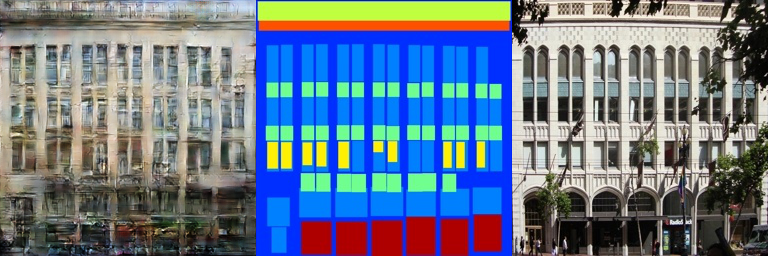
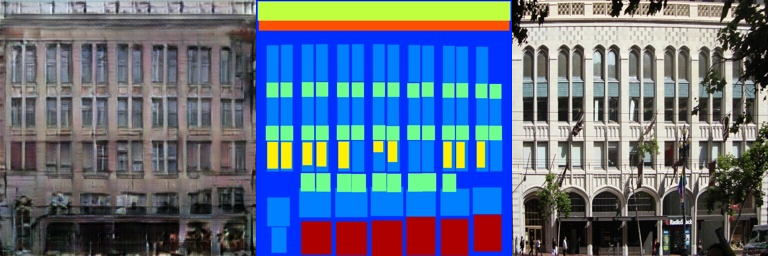
proper receptive field size use

Changed region(s): [[0.0, 0.0, 0.3438, 1.0]]

diff --git a/Work-place/pix2pix/pix2pix.py b/Work-place/pix2pix/pix2pix.py
@@ -115,10 +115,8 @@ def discriminator(inputs, targets, n_first_layer_filter=64, alpha=0.2, reuse=Fal
         l3 = tf.layers.batch_normalization(inputs=l3, training=is_training)
         l3 = tf.maximum(alpha * l3, l3)
 
+        # option 1. try to make same as possible in paper(same channel same receptive field size)
         # layer_4: [batch, 32, 32, 256] => [batch, 31, 31, 512], with batchnorm
-        # n_filter = n_first_layer_filter * 8
-        # l4 = tf.layers.conv2d(l3, filters=n_filter, kernel_size=4, strides=1, padding='same',
-        #                       kernel_initializer=w_init, use_bias=False)
         filter_4 = tf.get_variable('filter_4', [4, 4, n_first_layer_filter * 4, n_first_layer_filter * 8],
                                    dtype=tf.float32, initializer=w_init)
         padding_4 = tf.pad(l3, [[0, 0], [1, 1], [1, 1], [0, 0]], mode="CONSTANT")
@@ -127,14 +125,23 @@ def discriminator(inputs, targets, n_first_layer_filter=64, alpha=0.2, reuse=Fal
         l4 = tf.maximum(alpha * l4, l4)
 
         # layer_5: [batch, 31, 31, 512] => [batch, 30, 30, 1], without batchnorm
-        # n_filter = 1
-        # logits = tf.layers.conv2d(l4, filters=n_filter, kernel_size=4, strides=1, padding='same',
-        #                           kernel_initializer=w_init, use_bias=False)
         filter_5 = tf.get_variable('filter_5', [4, 4, n_first_layer_filter * 8, 1],
                                    dtype=tf.float32, initializer=w_init)
         padding_5 = tf.pad(l4, [[0, 0], [1, 1], [1, 1], [0, 0]], mode="CONSTANT")
         logits = tf.nn.conv2d(padding_5, filter_5, [1, 1, 1, 1], padding='VALID')
         out = tf.sigmoid(logits)
+
+        # # option 2. try to follow tf.layer.conv2d() only match receptive field size
+        # # layer_4: [batch, 32, 32, 256] => [batch, 29, 29, 512], with batchnorm
+        # n_filter = n_first_layer_filter * 8
+        # l4 = tf.layers.conv2d(l3, filters=n_filter, kernel_size=4, strides=1, padding='valid',
+        #                       kernel_initializer=w_init, use_bias=False)
+        #
+        # # layer_5: [batch, 29, 29, 512] => [batch, 26, 26, 1], without batchnorm
+        # n_filter = 1
+        # logits = tf.layers.conv2d(l4, filters=n_filter, kernel_size=4, strides=1, padding='valid',
+        #                           kernel_initializer=w_init, use_bias=False)
+        # out = tf.sigmoid(logits)
 
         return out, logits
 
@@ -186,7 +193,7 @@ def train(net, epochs, batch_size, train_input_image_dir, test_image, direction,
     saver = tf.train.Saver()
 
     # prepare dataset
-    train_dataset = helper.Dataset(train_input_image_dir, convert_to_lab_color=False, direction=direction)
+    train_dataset = helper.Dataset(train_input_image_dir, convert_to_lab_color=False, direction=direction, is_test=False)
 
     with tf.Session() as sess:
         sess.run(tf.global_variables_initializer())
@@ -307,10 +314,6 @@ def main(do_train=True):
         end_time = time.time()
         total_time = end_time - start_time
         print('Elapsed time: ', total_time)
-        # 200 epochs: 7173.71
-        # 200 epochs: 8563.10
-        # 200 epochs: 11520.13
-
 
         fig, ax = plt.subplots()
         losses = np.array(losses)

diff --git a/Work-place/pix2pix/README.md b/Work-place/pix2pix/README.md
@@ -9,6 +9,13 @@
 ## Current Results
 
 * facades
+  * epochs: 200
+  * batch size: 1
+  * learning rate: 0.0002
+  * training time: 2h 32m (GTX 1080 Ti - Ubuntu)
+  * image manipulation
+    * random flip
+    * resize jitter + random crop
 
 | Generator output - Generator input - Ground truth |
 | --- | 
